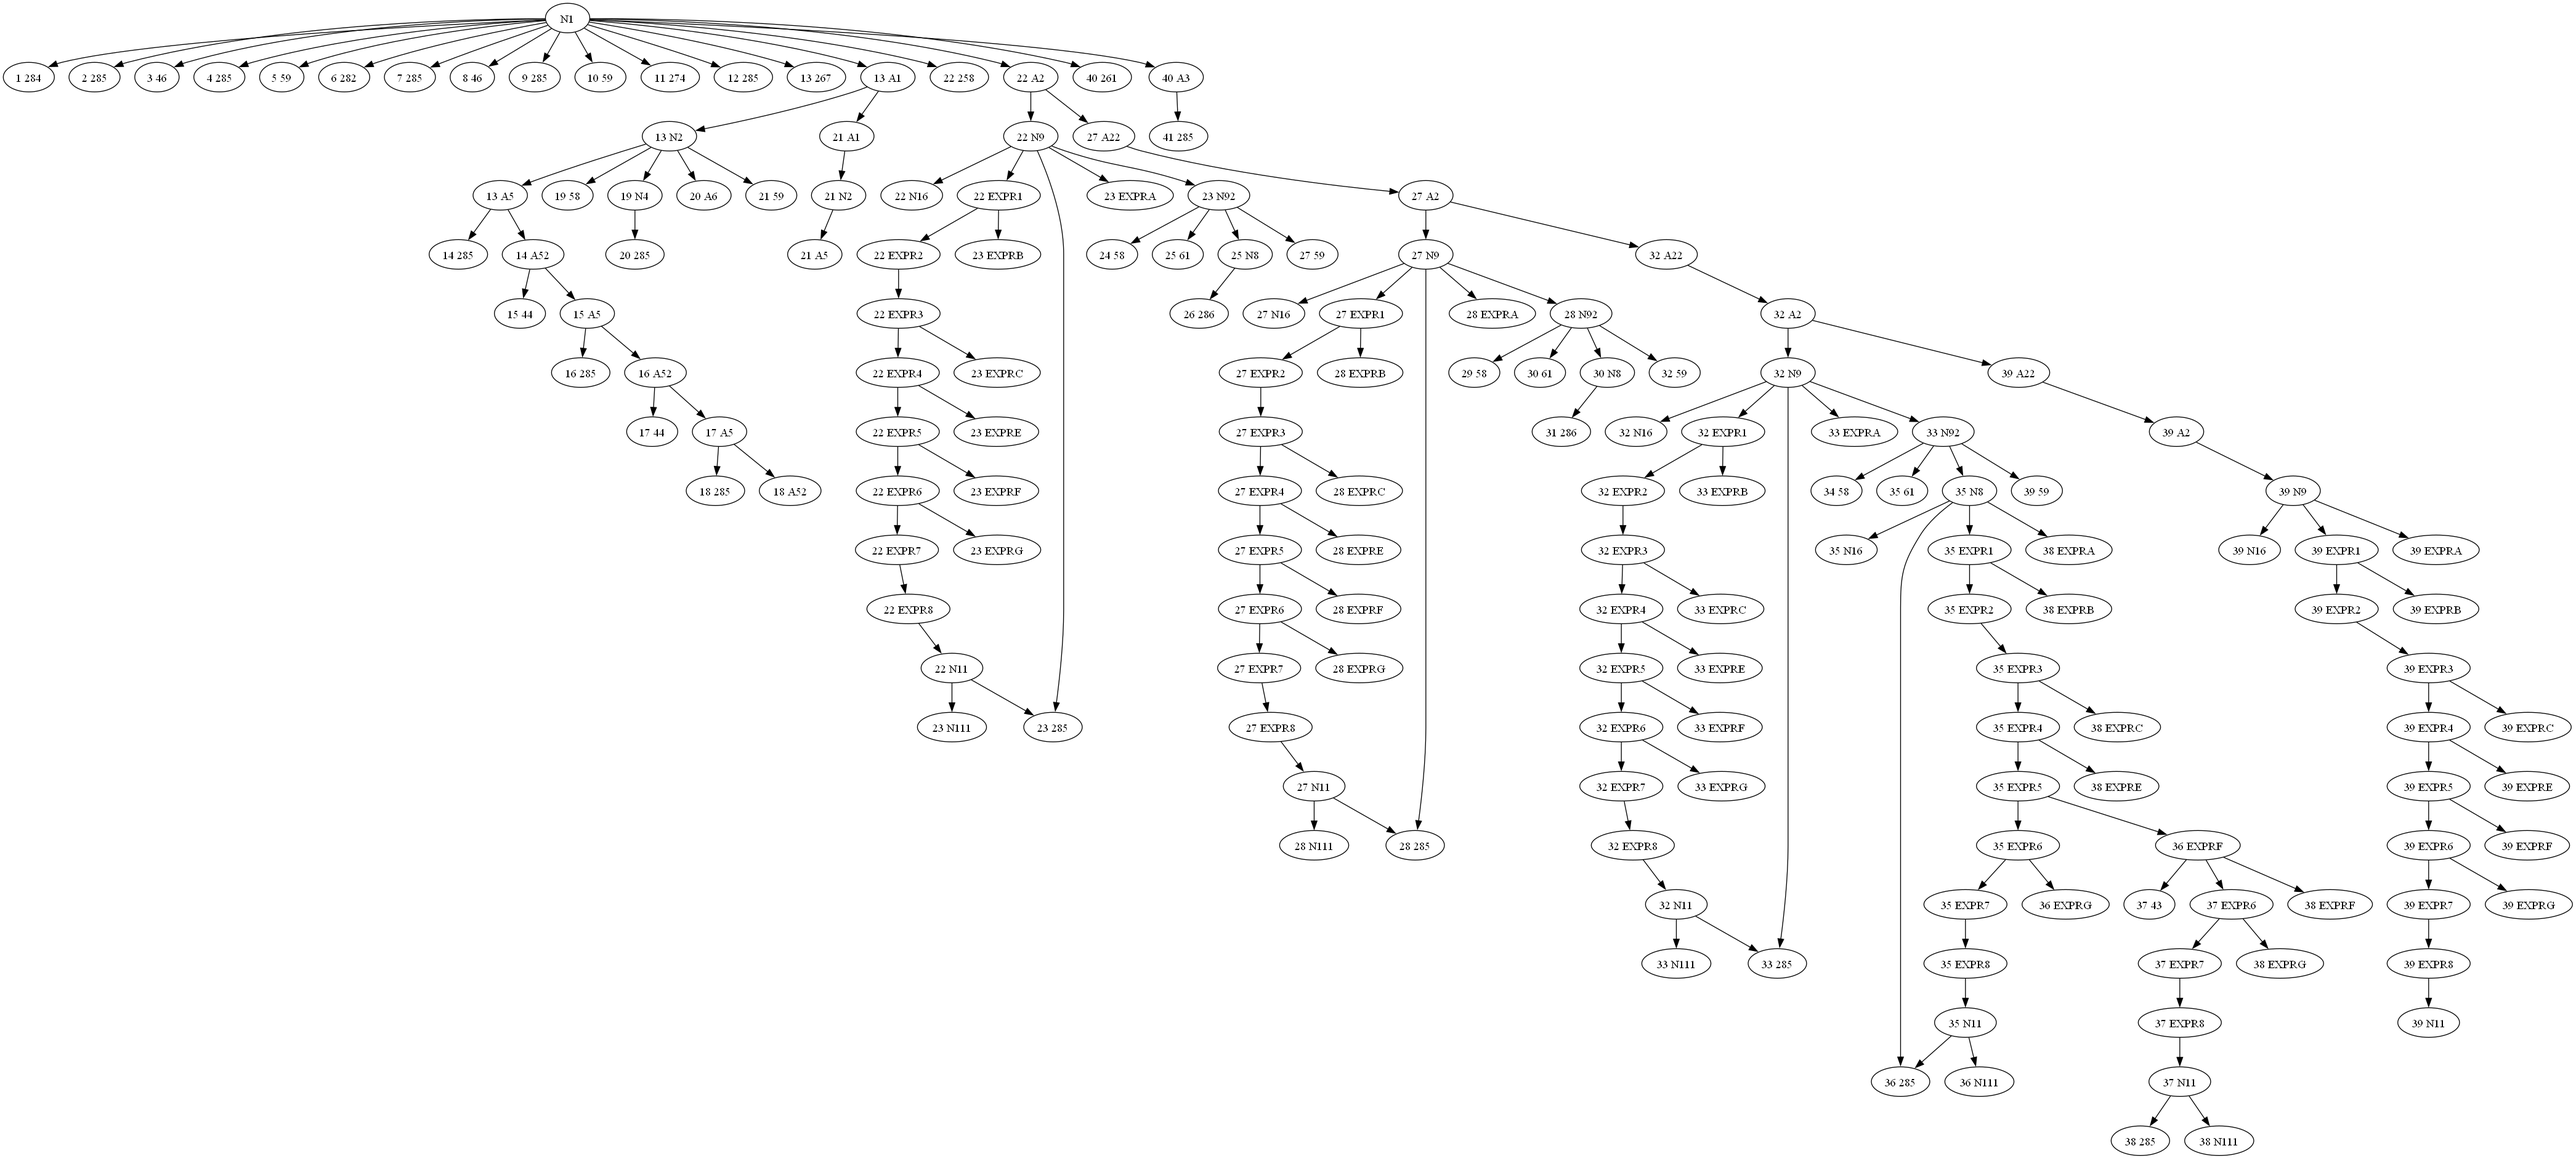
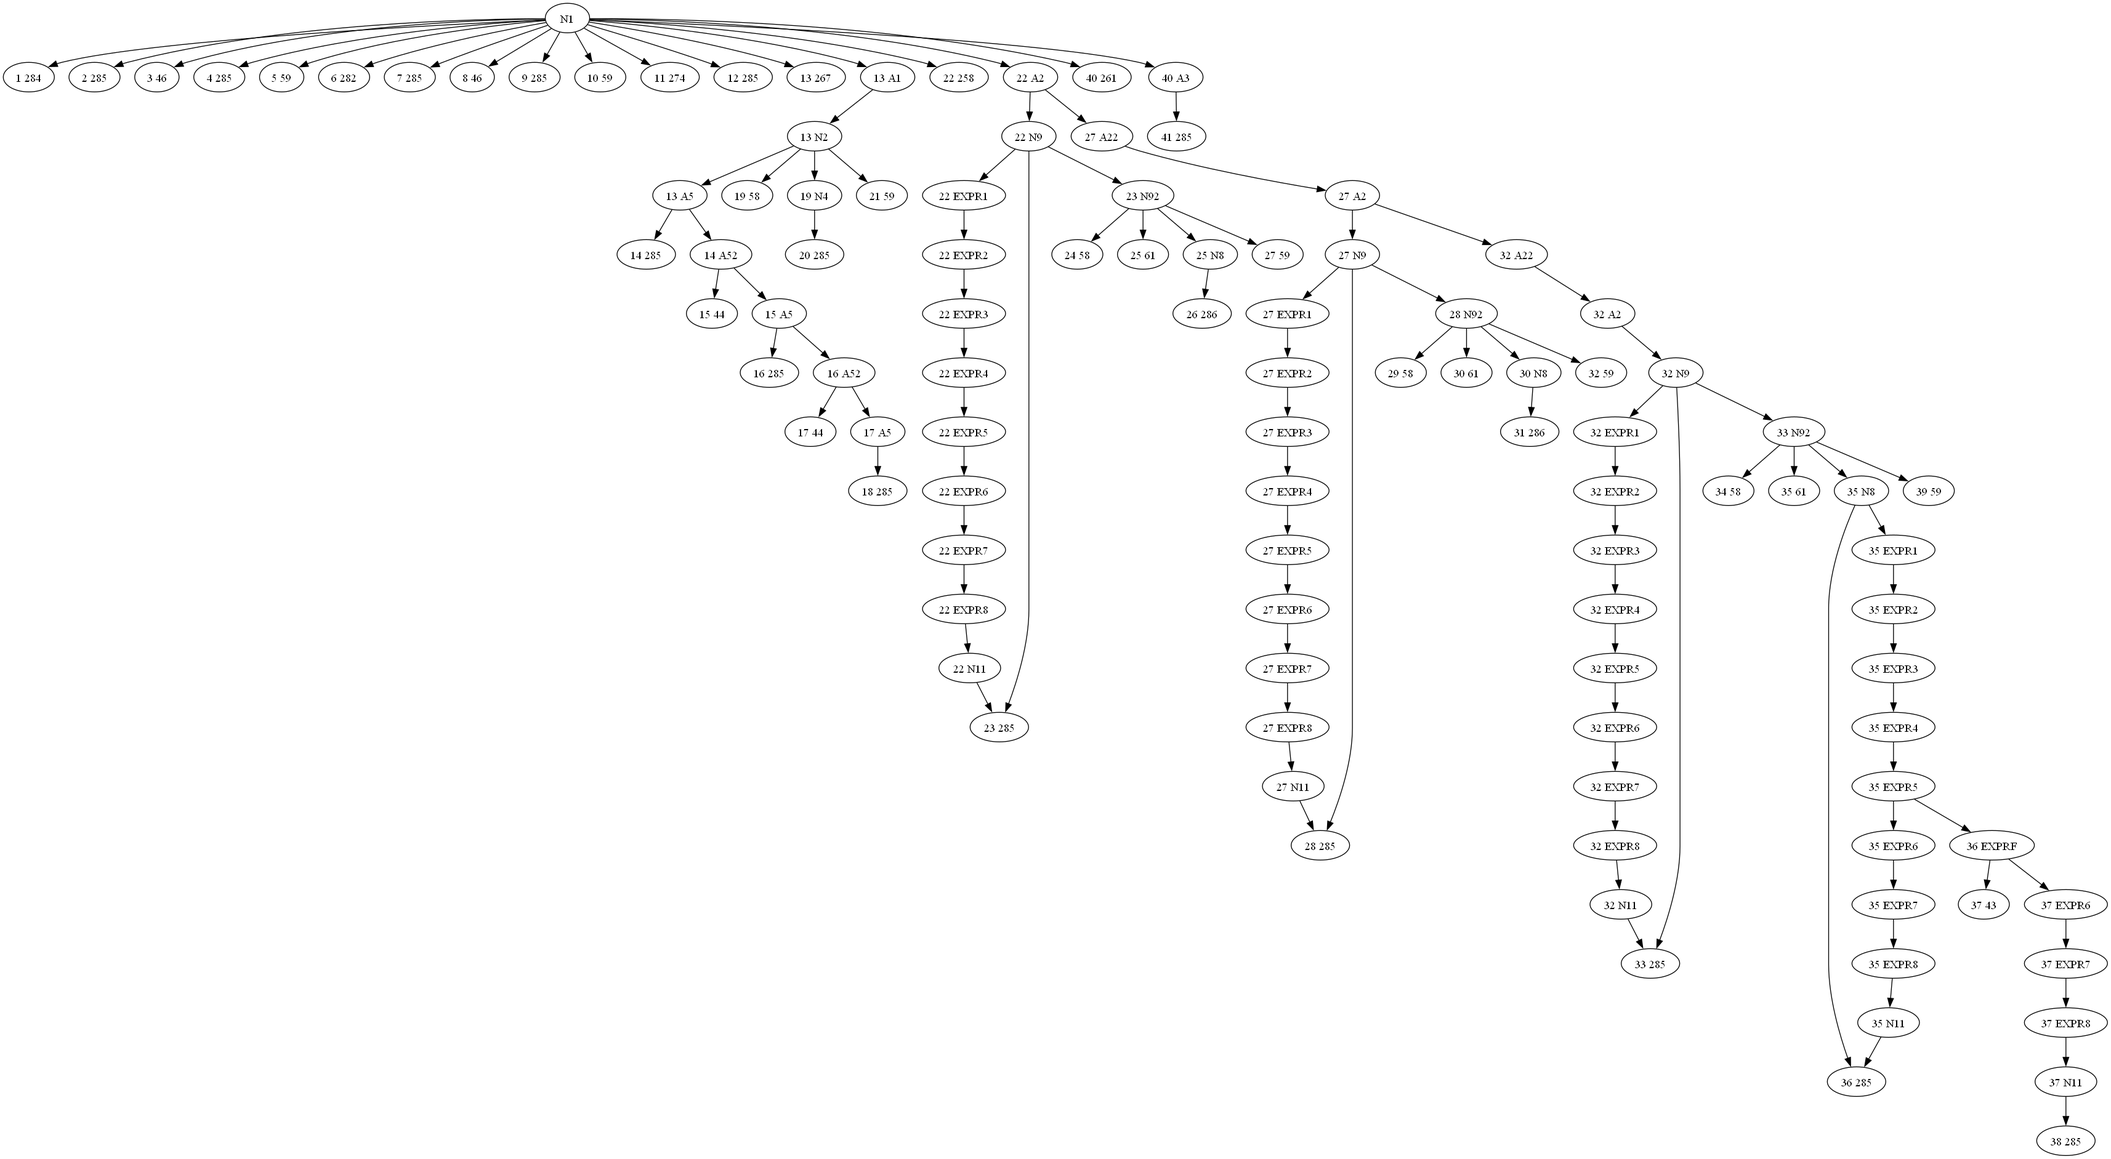
résolution lecture epsilon

diff --git a/parseur/main_parseur.py b/parseur/main_parseur.py
@@ -1,9 +1,8 @@
-from anytree import Node, RenderTree
+from anytree import Node, RenderTree, search, PreOrderIter
 from anytree.exporter import DotExporter
 
 import lexeur.file_to_code_ter as file
 import parseur.functions
-import lexeur.dictionnaire_ter as dictionnaire_ter
 
 
 def generate_tree(name_file):
@@ -12,6 +11,22 @@ def generate_tree(name_file):
         print("Tree visualization saved")
     except ImportError:
         print("Graphviz not installed. Unable to create graphical representation.")
+
+
+def delete_leef_eps(racine):
+    for node in racine.leaves:
+        if isDelete(node.name):
+            node.parent = None
+
+
+def delete_leef_epsX(racine):
+    for i in range(0, racine.height):
+        delete_leef_eps(racine)
+
+
+def isDelete(name):
+    nom = name.split(" ")
+    return nom[1][0].isalpha()
 
 
 if __name__ == '__main__':
@@ -24,13 +39,17 @@ if __name__ == '__main__':
     print(token_list)
     root = Node('N1')
     print(parseur.functions.fonction_N1(token_list, root))
+    delete_leef_epsX(root)
     generate_tree("tree_calcul.png")
-    #
+    result = search.findall(root, filter_=lambda node: node.name in ("33 285"))
+    print(result)
+
     # print("On va maintenant tester un exemple qui contient des procédures imbriquées :")
     # token_list = file.get_token("exemples/exemple_double_procedure.ada")
     # print(token_list)
     # root = Node('N1')
     # print(parseur.functions.fonction_N1(token_list, root))
+    # delete_leef_epsX(root)
     # generate_tree("tree_double_procedure.png")
     #
     # print("On va maintenant tester un exemple qui contient blocs d'instructions if elif et else :")
@@ -38,6 +57,7 @@ if __name__ == '__main__':
     # print(token_list)
     # root = Node('N1')
     # print(parseur.functions.fonction_N1(token_list, root))
+    # delete_leef_epsX(root)
     # generate_tree("tree_if_elif.png")
     #
     # print("On va maintenant tester si notre parseur fonctionne avec un programme qui contient des if et des while :")
@@ -45,6 +65,7 @@ if __name__ == '__main__':
     # print(token_list)
     # root = Node('N1')
     # print(parseur.functions.fonction_N1(token_list, root))
+    # delete_leef_epsX(root)
     # generate_tree("tree_if_while.png")
     #
     # print("Le test qui suit vise à montrer que l'on traite bien le cas où notre grammaire n'est pas LL1 (/=, /) :")
@@ -52,20 +73,23 @@ if __name__ == '__main__':
     # print(token_list)
     # root = Node('N1')
     # print(parseur.functions.fonction_N1(token_list, root))
+    # delete_leef_epsX(root)
     # generate_tree("tree_division_difference.png")
-
+    #
     # print("On va maintenant tester un exemple qui tourne autour des expressions arithmétiques :")
     # token_list = file.get_token("exemples/exemple_expression_arithmetique.ada")
     # print(token_list)
     # root = Node('N1')
     # print(parseur.functions.fonction_N1(token_list, root))
+    # delete_leef_epsX(root)
     # generate_tree("tree_expression_arithmetique.png")
-
+    #
     # print("On va maintenant tester un exemple qui contient des fonctions imbriquées :")
     # token_list = file.get_token("exemples/exemple_fonctions_imb.ada")
     # print(token_list)
     # root = Node('N1')
     # print(parseur.functions.fonction_N1(token_list, root))
+    # delete_leef_epsX(root)
     # generate_tree("tree_fonctions_imb.png")
     #
     # print("On va maintenant tester un exemple qui mélange un peut tout (fonctions, procédures) :")
@@ -73,6 +97,7 @@ if __name__ == '__main__':
     # print(token_list)
     # root = Node('N1')
     # print(parseur.functions.fonction_N1(token_list, root))
+    # delete_leef_epsX(root)
     # generate_tree("tree_mixte.png")
     #
     # print("Le dernier test est effectué sur le code fournit dans le sujet :")
@@ -80,6 +105,7 @@ if __name__ == '__main__':
     # print(token_list)
     # root = Node('N1')
     # print(parseur.functions.fonction_N1(token_list, root))
+    # delete_leef_epsX(root)
     # generate_tree("tree_exemple.png")
 
     # Display the tree structure
